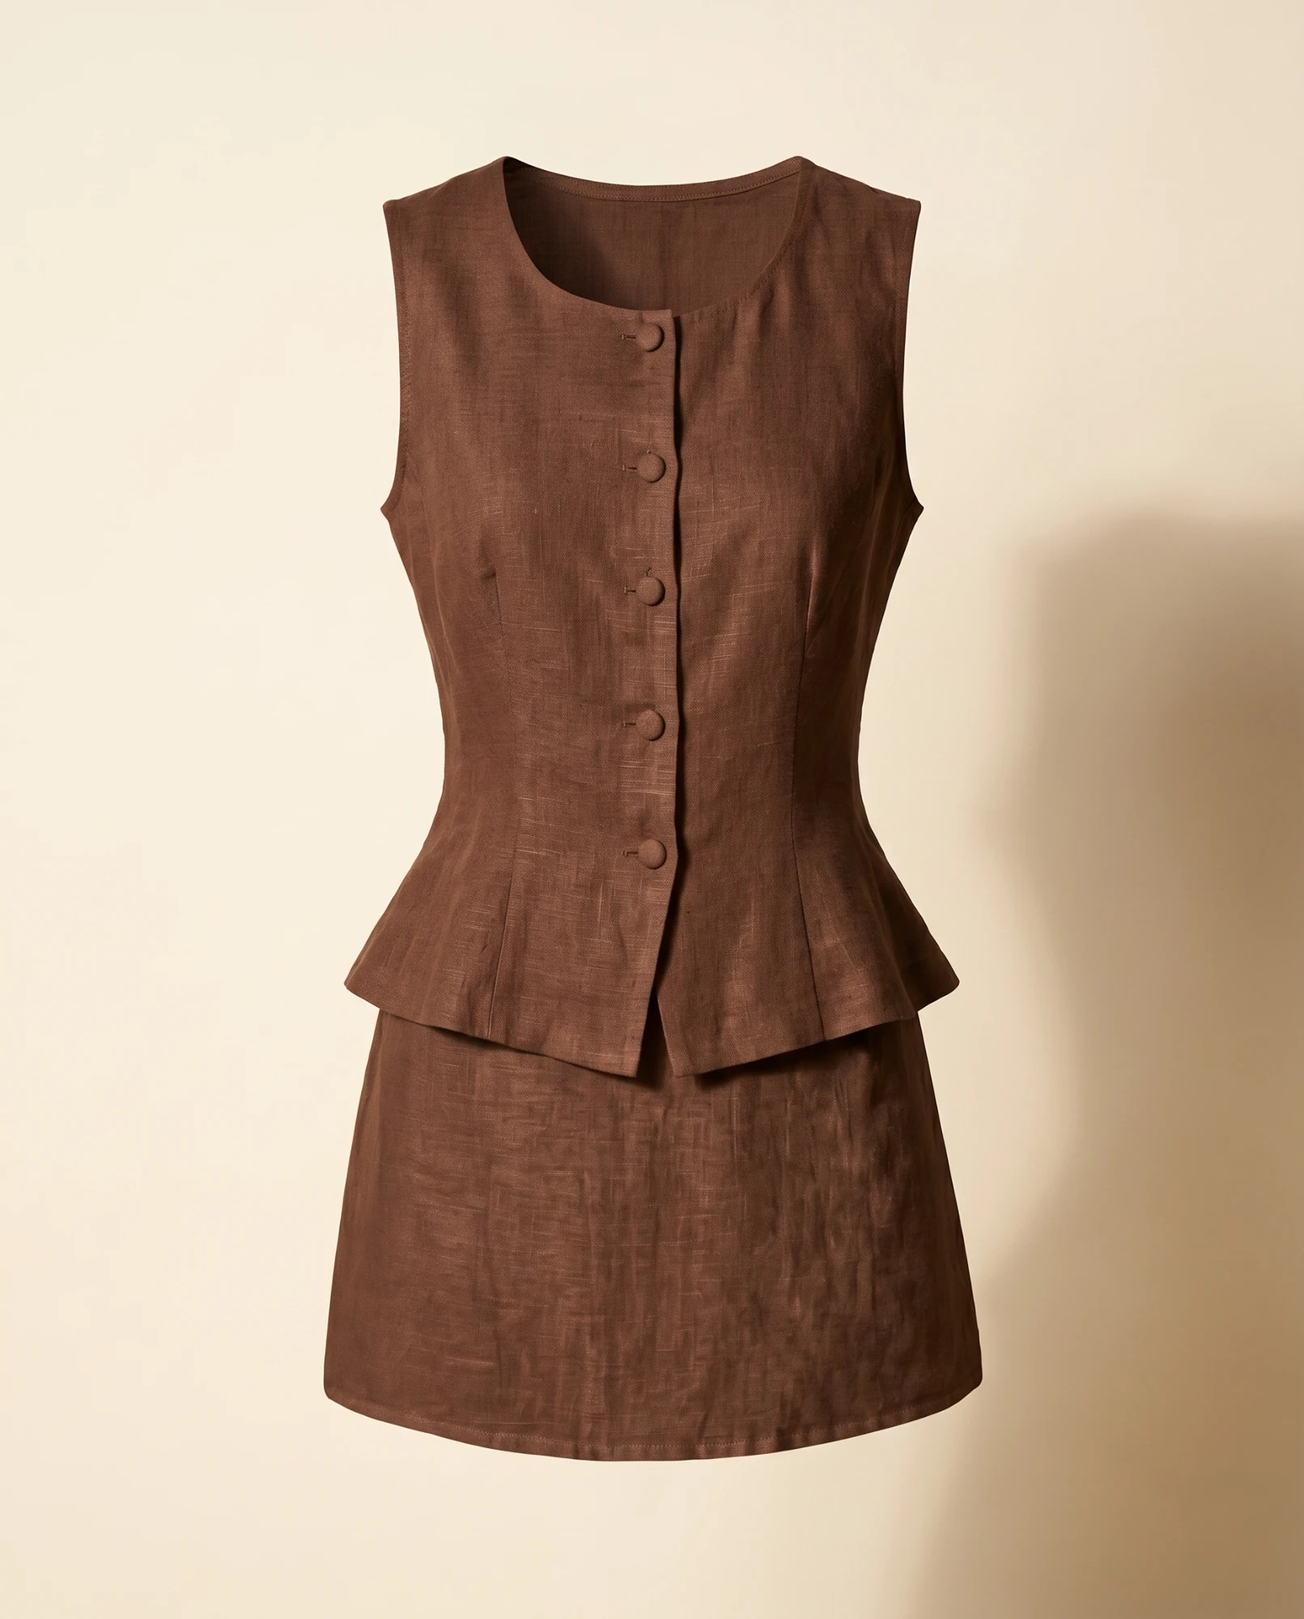
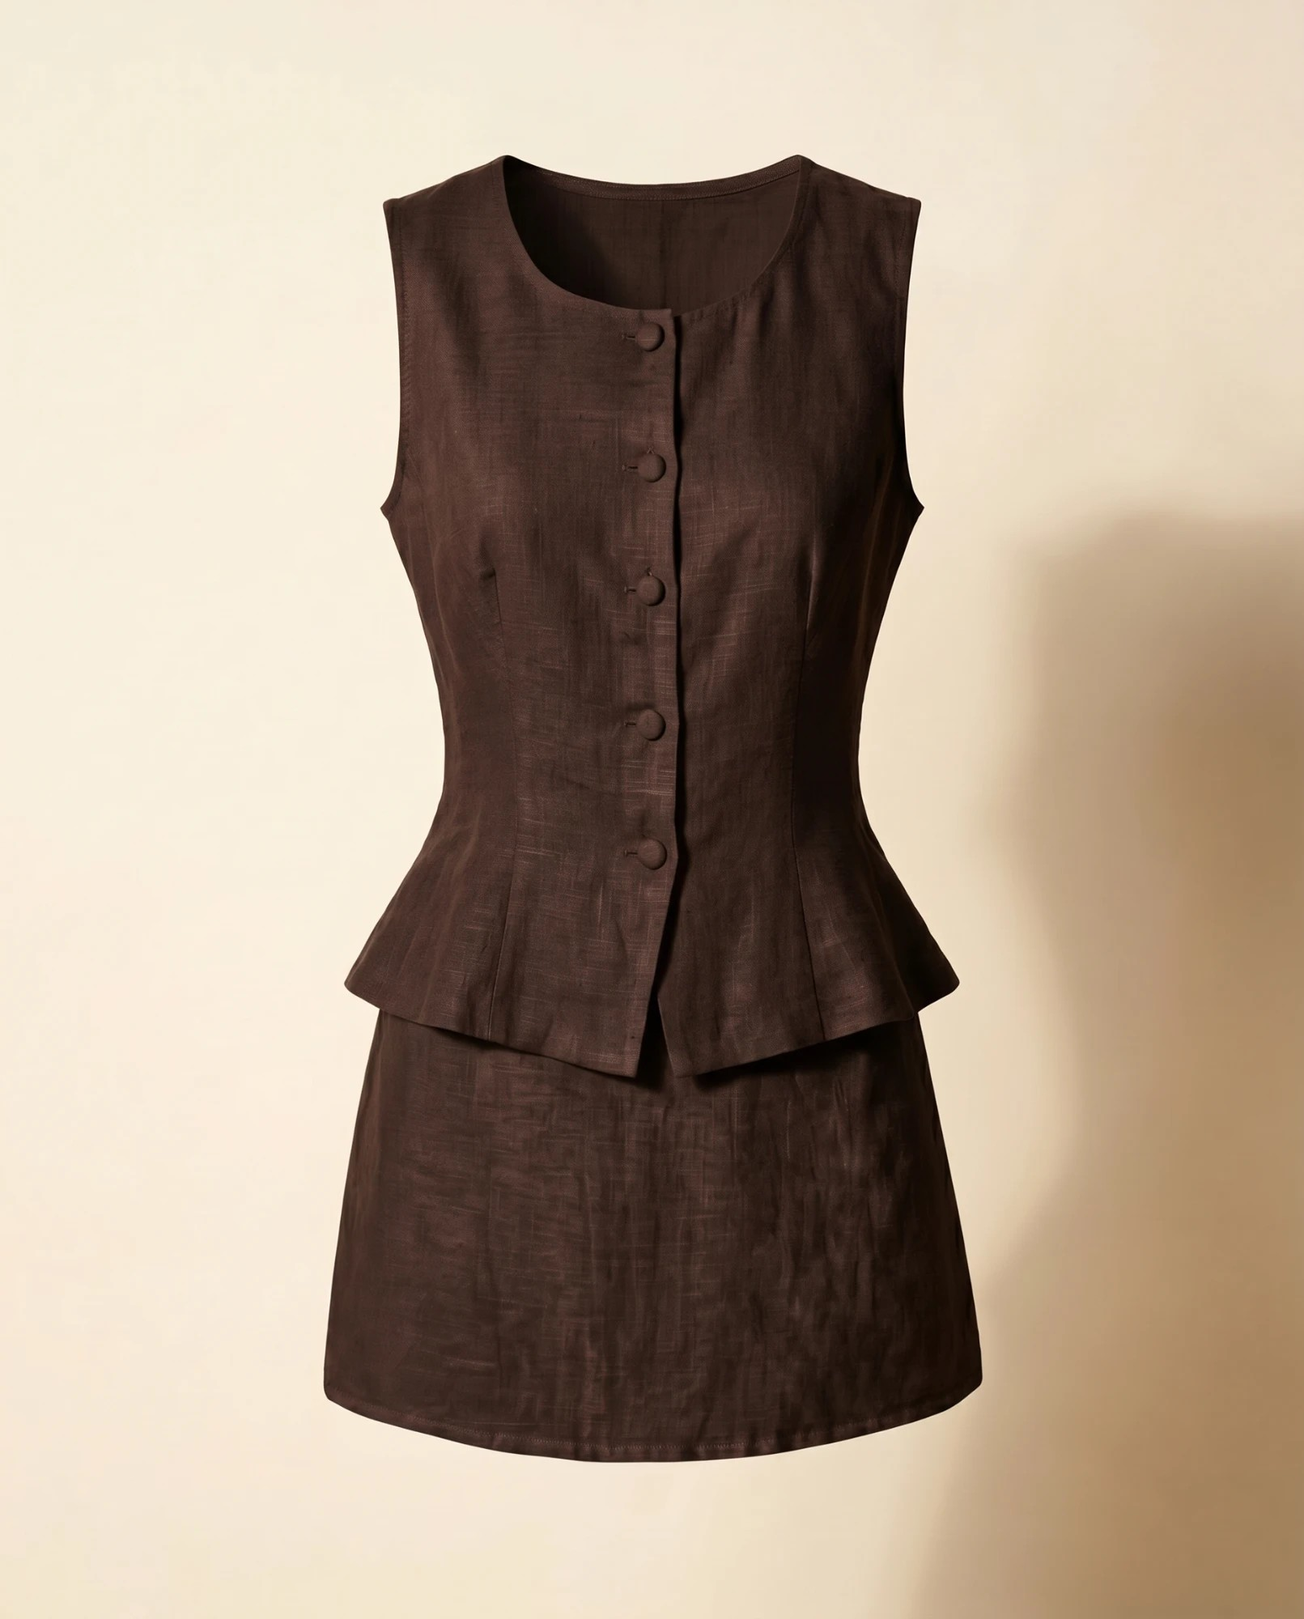
Refresh brown colourways, prune fallback colours, reword copy, remove try-on
- Replace the five brown product photos (set, flares, waistcoat, dress, skirt)
- Only show a colour option where there is a real distinct image; drop
  fallback-only colours (crewneck Cream, cap Stone, shirt Cream, shorts Sky stripe)
- Reword product descriptions to fit the brand voice and the actual pieces
  (incl. correcting the linen dress to a square-neck pinafore)
- Remove the Virtual Try-On / Fitting Room section, nav link, buttons,
  fitting-room JS and CSS

diff --git a/assets/js/app.js b/assets/js/app.js
@@ -1,7 +1,7 @@
 /* ============================================================
    MAREN — storefront app
    Data layer + cart/wishlist + product detail + journal +
-   shoppable lookbook + size guide + fitting-room demo + stylist.
+   shoppable lookbook + size guide + stylist.
    Zero-build, client-side only. Persistence via localStorage.
    ============================================================ */
 (function(){
@@ -12,34 +12,34 @@
   var SIZES = ['XS','S','M','L','XL'];
   var products = [
     {id:'crewneck', name:'The Cotton Crewneck', price:138, cat:'Sweats',      g:'top',   blooms:'#C9C2B4', hero:true, pal:['neutrals'], occ:['rest','town'],
-      desc:'Oversized marl cotton fleece, chest pocket', colors:[{name:'Marl Grey',hex:'#C9C2B4'},{name:'Navy',hex:'#2A3B52',img:'crewneck-navy'},{name:'Cream',hex:'#F2ECDF'}],
+      desc:'Heavyweight marl cotton, oversized with a chest pocket', colors:[{name:'Marl Grey',hex:'#C9C2B4'},{name:'Navy',hex:'#2A3B52',img:'crewneck-navy'}],
       fabric:'Heavyweight brushed-back cotton fleece with a soft marl. Dropped shoulders, ribbed neck, cuffs and hem, with a patch chest pocket and an embroidered MAREN wordmark.', care:'Machine wash cold inside out; dry flat to keep its shape.'},
     {id:'cap',      name:'The MAREN Cap',       price:42,  cat:'Accessories', g:'top',   blooms:'#2A3B52', hero:true, sizes:['One size'], pal:['blues','neutrals'], occ:['harbour','town'],
-      desc:'Washed-cotton six-panel, embroidered wordmark', colors:[{name:'Navy',hex:'#2A3B52'},{name:'Stone',hex:'#C9BBA1'}],
+      desc:'Soft washed-cotton six-panel with an embroidered wordmark', colors:[{name:'Navy',hex:'#2A3B52'}],
       fabric:'Unstructured six-panel cap in soft washed cotton with a low crown, curved brim and an embroidered MAREN wordmark.', care:'Spot clean and air dry. Do not machine wash.'},
     {id:'shirt',    name:'The Linen Shirt',     price:88,  cat:'Shirts',      g:'top',   blooms:'#AFC7DA', hero:true, pal:['neutrals','blues'], occ:['town','harbour'],
-      desc:'Pre-washed linen, mother-of-pearl buttons', colors:[{name:'White',hex:'#FBF8F2'},{name:'Sky',hex:'#AFC7DA',img:'shirt-sky'},{name:'Navy',hex:'#2A3B52',img:'shirt-navy'},{name:'Cream',hex:'#F2ECDF'}],
+      desc:'Relaxed pre-washed linen with mother-of-pearl buttons', colors:[{name:'White',hex:'#FBF8F2'},{name:'Sky',hex:'#AFC7DA',img:'shirt-sky'},{name:'Navy',hex:'#2A3B52',img:'shirt-navy'}],
       fabric:'Pre-washed pure linen with a relaxed cut, soft natural creases and mother-of-pearl buttons. Woven MAREN collar label.', care:'Machine wash cold, line dry, warm iron — or wear creased.'},
     {id:'dress',    name:'The Linen Dress',     price:128, cat:'Dresses',     g:'dress', blooms:'#AFC7DA', hero:true, pal:['neutrals','blues'], occ:['harbour','evening'],
-      desc:'Square-neck linen midi, easy drape', colors:[{name:'White',hex:'#FBF8F2'},{name:'Natural',hex:'#C9BBA1',img:'dress-oat'},{name:'Brown',hex:'#6E5847',img:'dress-brown'}],
-      fabric:'Easy midi dress in pure washed linen with a square neckline, fine straps and a soft natural drape. Woven MAREN inner label.', care:'Machine wash cold, line dry, cool iron.'},
+      desc:'Square-neck linen pinafore with an easy A-line', colors:[{name:'White',hex:'#FBF8F2'},{name:'Natural',hex:'#C9BBA1',img:'dress-oat'},{name:'Brown',hex:'#6E5847',img:'dress-brown'}],
+      fabric:'A short pinafore dress in pure washed linen with a square neckline, wider straps and a soft A-line. Woven MAREN inner label.', care:'Machine wash cold, line dry, cool iron.'},
     {id:'shorts',   name:'The Gingham Shorts',  price:62,  cat:'Shorts',      g:'set',   blooms:'#8FB0CB', hero:true, pal:['blues','stripe'], occ:['rest','harbour'],
-      desc:'Pull-on linen, navy-and-cream gingham', colors:[{name:'Navy gingham',hex:'#2A3B52'},{name:'Sky stripe',hex:'#AFC7DA'}],
+      desc:'Pull-on gingham linen in washed navy and cream', colors:[{name:'Navy gingham',hex:'#2A3B52'}],
       fabric:'Relaxed pull-on shorts in lightweight gingham linen with a gathered elastic waist, button fly and a woven MAREN hem label.', care:'Machine wash cold, line dry, warm iron.'},
     {id:'skirt',    name:'The Linen Mini Skirt', price:78, cat:'Skirts',       g:'set',   blooms:'#C9C2B4', hero:false, pal:['neutrals'], occ:['town','harbour'],
-      desc:'A-line washed linen mini', colors:[{name:'White',hex:'#FBF8F2'},{name:'Navy',hex:'#2A3B52',img:'skirt-navy'},{name:'Brown',hex:'#6E5847',img:'skirt-brown'}],
+      desc:'A-line washed-linen mini with a clean waistband', colors:[{name:'White',hex:'#FBF8F2'},{name:'Navy',hex:'#2A3B52',img:'skirt-navy'},{name:'Brown',hex:'#6E5847',img:'skirt-brown'}],
       fabric:'Clean A-line mini in structured washed linen with a smooth waistband and a woven MAREN label.', care:'Machine wash cold, line dry, cool iron.'},
     {id:'vest',     name:'The Linen Waistcoat',  price:92, cat:'Waistcoats',   g:'top',   blooms:'#E2D7C3', hero:false, pal:['neutrals'], occ:['town','evening'],
-      desc:'Tailored sleeveless linen, button front', colors:[{name:'Natural',hex:'#F2ECDF'},{name:'Navy',hex:'#2A3B52',img:'vest-navy'},{name:'Brown',hex:'#6E5847',img:'vest-brown'}],
+      desc:'Tailored sleeveless linen with a covered-button front', colors:[{name:'Natural',hex:'#F2ECDF'},{name:'Navy',hex:'#2A3B52',img:'vest-navy'},{name:'Brown',hex:'#6E5847',img:'vest-brown'}],
       fabric:'A fitted sleeveless waistcoat in washed linen with a rounded neck, covered buttons and a woven MAREN label.', care:'Machine wash cold or hand wash; line dry, cool iron.'},
     {id:'set',      name:'The Linen Set',        price:160, cat:'Sets',        g:'dress', blooms:'#E2D7C3', hero:true,  pal:['neutrals'], occ:['town','evening'],
-      desc:'Waistcoat & mini skirt, washed linen', colors:[{name:'White',hex:'#FBF8F2'},{name:'Navy',hex:'#2A3B52',img:'set-navy'},{name:'Brown',hex:'#6E5847',img:'set-brown'}],
+      desc:'Linen waistcoat and mini skirt, made to wear together', colors:[{name:'White',hex:'#FBF8F2'},{name:'Navy',hex:'#2A3B52',img:'set-navy'},{name:'Brown',hex:'#6E5847',img:'set-brown'}],
       fabric:'The Linen Waistcoat and Mini Skirt as a tailored co-ord — washed linen, worn together. A saving on buying the pieces separately.', care:'Machine wash cold or hand wash; line dry, cool iron.'},
     {id:'pants',    name:'The Fold-Over Flares', price:88,  cat:'Trousers',    g:'set',   blooms:'#8FB0CB', hero:false, pal:['neutrals','blues'], occ:['rest','town'],
-      desc:'Fold-over waist, wide flare, soft jersey', colors:[{name:'Navy',hex:'#2A3B52'},{name:'Brown',hex:'#6E5847',img:'pants-brown'}],
+      desc:'Fold-over waist flares in soft, drapey jersey', colors:[{name:'Navy',hex:'#2A3B52'},{name:'Brown',hex:'#6E5847',img:'pants-brown'}],
       fabric:'Soft brushed jersey lounge flares with a fold-over waistband and a wide, drapey leg. Woven MAREN waistband label.', care:'Machine wash cold, line dry; do not tumble.'},
     {id:'breton',   name:'The Breton Long-Sleeve', price:72, cat:'Tops',       g:'top',   blooms:'#8FB0CB', hero:false, pal:['stripe','blues'], occ:['town','rest'],
-      desc:'Oversized cotton, navy Breton stripe', colors:[{name:'Navy stripe',hex:'#2A3B52'}],
+      desc:'Oversized cotton in a yarn-dyed navy Breton stripe', colors:[{name:'Navy stripe',hex:'#2A3B52'}],
       fabric:'Oversized long-sleeve in heavyweight cotton jersey with a yarn-dyed navy-and-cream Breton stripe and a woven MAREN collar label.', care:'Machine wash cold, reshape damp, dry flat.'}
   ];
   var byId = {}; products.forEach(function(p){ byId[p.id]=p; });
@@ -215,8 +215,7 @@
           (p.colors.length>1 ? '<div class="ways">'+p.colors.map(function(c,i){return '<button class="cway'+(i===0?' active':'')+'" data-id="'+p.id+'" data-pcolor="'+c.name+'" title="'+c.name+'" style="background:'+c.hex+'" aria-label="'+p.name+' in '+c.name+'"></button>';}).join('')+'</div>' : '')+
           '</div>'+
           '<div class="card-actions">'+
-            '<button class="btn" data-quick="'+p.id+'">Quick view</button>'+
-            '<button class="btn solid" data-tryon="'+p.id+'">Try on</button>'+
+            '<button class="btn solid" data-quick="'+p.id+'">Quick view</button>'+
           '</div>';
         grid.appendChild(card);
       });
@@ -351,7 +350,6 @@
           '<button class="btn solid" id="pdp-add">Add to bag</button>'+
           '<button class="btn wish-btn'+(store.inWish(id)?' on':'')+'" id="pdp-wish" data-id="'+id+'" aria-label="Save">'+(store.inWish(id)?'♥':'♡')+'</button>'+
         '</div>'+
-        '<button class="btn" id="pdp-tryon" data-tryon="'+id+'" style="width:100%;justify-content:center;margin-top:10px;font-size:11px;">See it in the fitting room</button>'+
         '<div class="acc">'+
           '<details><summary>Fabric &amp; origin</summary><p>'+p.fabric+'</p></details>'+
           '<details><summary>Care</summary><p>'+p.care+'</p></details>'+
@@ -513,7 +511,7 @@
 
     // ----- global click delegation -----
     document.addEventListener('click', function(e){
-      var t = e.target.closest('[data-quick],[data-wish],[data-tryon],[data-article],[data-filter],[data-add]');
+      var t = e.target.closest('[data-quick],[data-wish],[data-article],[data-filter],[data-add]');
       if(!t) return;
 
       if(t.hasAttribute('data-filter')){
@@ -528,7 +526,6 @@
         openPDP(t.getAttribute('data-quick'), col); return;
       }
       if(t.hasAttribute('data-article')){ openArticle(parseInt(t.getAttribute('data-article'),10)); return; }
-      if(t.hasAttribute('data-tryon')){ closeAll(); jumpToTryOn(byId[t.getAttribute('data-tryon')].g); return; }
     });
 
     // ----- colour blocks on Edit cards: swap the thumbnail in place -----
@@ -639,7 +636,6 @@
 
     buildSizeGuide();
     initVideo();
-    initFittingRoom();
     initStylist();
     initNewsletter();
   }
@@ -708,69 +704,6 @@
       });
       toggle.textContent = (reduce || hv.paused) ? '▶' : '❙❙';
     }
-  }
-
-  /* ---------------- FITTING ROOM (demo, unchanged behaviour) ---------------- */
-  var fr = {};
-  function jumpToTryOn(g){
-    var tryon = $('#tryon'); if(!tryon) return;
-    tryon.scrollIntoView({behavior:'smooth'});
-    setTimeout(function(){
-      if(fr.setModel) fr.setModel('a');
-      if(fr.garmentShape){
-        var shapes = fr.shapes;
-        fr.garmentShape.setAttribute('d', shapes[g]||shapes.dress);
-        fr.garmentShape.setAttribute('fill', g==='dress'?'#F2ECDF':'#dfe7ee');
-        fr.garment.classList.add('on');
-      }
-    }, 500);
-  }
-  function initFittingRoom(){
-    var shapes = {
-      dress:'M20,30 L40,12 L80,12 L100,30 L94,52 L98,140 L22,140 L26,52 Z',
-      top:  'M16,32 L40,12 L80,12 L104,32 L92,52 L92,96 L28,96 L28,52 Z',
-      set:  'M22,34 L42,16 L78,16 L98,34 L90,54 L90,84 L30,84 L30,54 Z M34,92 L86,92 L84,138 L62,138 L62,104 L58,104 L58,138 L36,138 Z'
-    };
-    fr.shapes = shapes;
-    var empty=$('#stage-empty'), silA=$('#sil-a'), silB=$('#sil-b'), uploaded=$('#uploaded-img');
-    var garment=$('#garment'); fr.garment=garment; fr.garmentShape=$('#garment-shape');
-    var chipsBox=$('#garment-chips');
-    if(!garment) return;
-    fr.setModel = function(which){
-      empty.style.display='none'; uploaded.style.display='none';
-      silA.style.display = which==='a'?'block':'none';
-      silB.style.display = which==='b'?'block':'none';
-      $all('[data-model]').forEach(function(b){ b.classList.toggle('active', b.getAttribute('data-model')===which); });
-    };
-    $all('[data-model]').forEach(function(btn){ btn.addEventListener('click', function(){ fr.setModel(btn.getAttribute('data-model')); }); });
-    $('#photo') && $('#photo').addEventListener('change', function(e){
-      var file=e.target.files[0]; if(!file) return;
-      var reader=new FileReader();
-      reader.onload=function(ev){ uploaded.src=ev.target.result; uploaded.style.display='block';
-        silA.style.display='none'; silB.style.display='none'; empty.style.display='none';
-        $all('[data-model]').forEach(function(b){b.classList.remove('active');}); };
-      reader.readAsDataURL(file);
-    });
-    var garmentBtns=[
-      {g:'dress',label:'Linen Dress',color:'#FBF8F2'},{g:'top',label:'Linen Shirt',color:'#F2ECDF'},
-      {g:'top',label:'Cotton Crewneck',color:'#C9C2B4'},{g:'set',label:'Gingham Shorts',color:'#AFC7DA'},
-      {g:'top',label:'MAREN Cap',color:'#2A3B52'}
-    ];
-    chipsBox && garmentBtns.forEach(function(o){
-      var b=document.createElement('button'); b.className='chip'; b.textContent=o.label;
-      b.addEventListener('click', function(){
-        if(silA.style.display==='none' && silB.style.display==='none' && uploaded.style.display==='none'){ fr.setModel('a'); }
-        fr.garmentShape.setAttribute('d', shapes[o.g]); fr.garmentShape.setAttribute('fill', o.color);
-        garment.classList.add('on');
-        $all('.chip',chipsBox).forEach(function(c){c.classList.remove('active');}); b.classList.add('active');
-      });
-      chipsBox.appendChild(b);
-    });
-    $('#reset-stage') && $('#reset-stage').addEventListener('click', function(){
-      garment.classList.remove('on'); silA.style.display='none'; silB.style.display='none';
-      uploaded.style.display='none'; uploaded.src=''; empty.style.display='block';
-      $all('.chip',chipsBox).forEach(function(c){c.classList.remove('active');});
-    });
   }
 
   /* ---------------- STYLIST (rule-based demo) ---------------- */

diff --git a/index.html b/index.html
@@ -21,7 +21,6 @@
       <a href="#lookbook">Lookbook</a>
       <a href="#films">Films</a>
       <a href="#journal">Journal</a>
-      <a href="#tryon">Try On</a>
       <a href="#stylist">Stylist</a>
     </nav>
     <a class="brandmark" href="#top">MAREN</a>
@@ -125,57 +124,6 @@
       <div class="cap"><div class="k">Campaign</div><div class="t">MAREN — Spring / Summer 2026</div></div>
     </div>
     <div class="films-grid" id="films-grid"></div>
-  </div>
-</section>
-
-<!-- ============ VIRTUAL TRY-ON ============ -->
-<section id="tryon" class="tryon-section">
-  <div class="wrap">
-    <div class="sec-head">
-      <div class="eyebrow">The Fitting Room</div>
-      <h2>Virtual Try-On</h2>
-    </div>
-    <p class="tryon-lead">See a piece on a model, or on you. Choose a fit, then layer a garment — this is an interactive prototype; real photorealistic try-on is the next build (it needs a server-side engine, a per-image budget and a privacy/GDPR review).</p>
-    <div class="studio">
-      <div class="stage" id="stage" aria-live="polite">
-        <span class="placeholder-text" id="stage-empty">Choose a model or add a photo to begin</span>
-        <svg class="silhouette" id="sil-a" viewBox="0 0 200 320" xmlns="http://www.w3.org/2000/svg" style="display:none" aria-hidden="true">
-          <g fill="#cdd7e2"><ellipse cx="100" cy="44" rx="30" ry="36"/>
-          <path d="M62,300 C70,150 80,108 100,108 C120,108 130,150 138,300 Z"/></g>
-        </svg>
-        <svg class="silhouette" id="sil-b" viewBox="0 0 200 320" xmlns="http://www.w3.org/2000/svg" style="display:none" aria-hidden="true">
-          <g fill="#e2d7c3"><ellipse cx="100" cy="46" rx="27" ry="33"/>
-          <path d="M66,300 C74,160 84,112 100,112 C116,112 126,160 134,300 Z"/></g>
-        </svg>
-        <img class="uploaded" id="uploaded-img" alt="" style="display:none">
-        <svg class="garment" id="garment" viewBox="0 0 120 150" xmlns="http://www.w3.org/2000/svg" aria-hidden="true">
-          <path id="garment-shape" d="M20,30 L40,12 L80,12 L100,30 L88,48 L88,140 L32,140 L32,48 Z" fill="#F2ECDF" stroke="#2A3B52" stroke-width="1.2" opacity="0.96"/>
-        </svg>
-      </div>
-      <div class="controls">
-        <div class="group">
-          <label>1 · Choose a fit</label>
-          <div class="chip-row">
-            <button class="chip" data-model="a">Model — Coastal</button>
-            <button class="chip" data-model="b">Model — Sun</button>
-          </div>
-          <div class="upload-box" style="margin-top:12px;">
-            <label for="photo" class="pick">Upload your photo</label> to try it on yourself
-            <input type="file" id="photo" accept="image/*">
-          </div>
-        </div>
-        <div class="group">
-          <label>2 · Layer a garment</label>
-          <div class="chip-row" id="garment-chips"></div>
-        </div>
-        <button class="btn light" id="reset-stage" style="font-size:11px;">Reset fitting room</button>
-        <details class="how">
-          <summary>How the production version works</summary>
-          <p>This prototype layers a flat garment graphic over a chosen figure to demonstrate the flow. A live build routes the customer’s photo (or a body model) and the garment asset through a try-on engine — a specialist VTO API or an in-house diffusion/pose pipeline — returning a photorealistic composite, wired to the same product data as The Edit.</p>
-          <p class="privacy-flag">Privacy note: any feature ingesting a customer photo processes personal (and arguably biometric) data. Under UK GDPR you’ll need a lawful basis, a privacy notice, retention limits, and ideally on-device or ephemeral processing. Confirm with counsel before launch.</p>
-        </details>
-      </div>
-    </div>
   </div>
 </section>
 

diff --git a/assets/css/styles.css b/assets/css/styles.css
@@ -131,37 +131,12 @@ section{padding:96px 0;}
 .card .card-actions{display:flex;gap:8px;margin:14px 20px 0;}
 .card .card-actions .btn{flex:1;justify-content:center;font-size:11px;padding:12px;}
 
-/* ---------- TRY-ON ---------- */
-.tryon-section{background:var(--ink);color:var(--cream);}
-.tryon-section .eyebrow{color:var(--sky);}
-.tryon-section h2{color:var(--cream-2);}
-.tryon-lead{text-align:center;max-width:60ch;margin:0 auto 46px;color:#cdd7e2;font-weight:300;}
-.studio{display:grid;grid-template-columns:1.1fr 1fr;gap:48px;align-items:start;
-  background:rgba(255,255,255,.04);border:1px solid rgba(175,199,218,.28);padding:34px;}
-.stage{position:relative;aspect-ratio:3/4;background:linear-gradient(180deg,#33455e,#2a3b52);
-  border:1px solid rgba(175,199,218,.3);overflow:hidden;display:flex;align-items:center;justify-content:center;}
-.stage .silhouette{position:absolute;bottom:0;height:92%;opacity:.92;}
-.stage .garment{position:absolute;left:50%;transform:translateX(-50%);width:54%;opacity:0;
-  transition:opacity .5s ease;mix-blend-mode:normal;}
-.stage .garment.on{opacity:1;}
-.stage .placeholder-text{color:#9fb2c7;font-size:12px;letter-spacing:.2em;text-transform:uppercase;text-align:center;padding:0 24px;}
-.stage img.uploaded{position:absolute;inset:0;width:100%;height:100%;object-fit:cover;}
-.controls label{display:block;font-size:11px;letter-spacing:.22em;text-transform:uppercase;color:var(--sky);margin:0 0 10px;}
-.controls .group{margin-bottom:26px;}
-.chip-row{display:flex;flex-wrap:wrap;gap:10px;}
-.chip{font-family:var(--sans);font-size:12px;letter-spacing:.08em;padding:10px 16px;border:1px solid rgba(175,199,218,.45);
-  background:transparent;color:var(--cream);transition:all .25s;}
-.chip:hover{border-color:var(--sky);}
-.chip.active{background:var(--sky);color:var(--ink);border-color:var(--sky);}
-.upload-box{border:1px dashed rgba(175,199,218,.5);padding:16px;text-align:center;font-size:12px;color:#bcccd9;}
-.upload-box input{display:none;}
-.upload-box .pick{color:var(--sky);text-decoration:underline;cursor:pointer;}
-details.how{margin-top:18px;border-top:1px solid rgba(175,199,218,.25);padding-top:16px;}
-details.how summary{font-size:11px;letter-spacing:.2em;text-transform:uppercase;color:var(--sky);cursor:pointer;}
-details.how p{font-size:12.5px;color:#cdd7e2;margin:12px 0 0;line-height:1.7;}
-.privacy-flag{font-size:11px;color:#9fb2c7;margin-top:14px;border-left:2px solid var(--sky);padding-left:12px;}
-
 /* ---------- STYLIST ---------- */
+.chip-row{display:flex;flex-wrap:wrap;gap:10px;}
+.chip{font-family:var(--sans);font-size:12px;letter-spacing:.08em;padding:10px 16px;border:1px solid var(--line);
+  background:transparent;color:var(--ink);transition:all .25s;cursor:pointer;}
+.chip:hover{border-color:var(--sky);}
+.chip.active{background:var(--ink);color:var(--cream);border-color:var(--ink);}
 .stylist-wrap{max-width:680px;margin:0 auto;background:var(--cream-2);border:1px solid var(--line);padding:42px;}
 .q{margin-bottom:30px;}
 .q p{font-family:var(--serif);font-size:20px;margin:0 0 16px;}
@@ -388,7 +363,6 @@ table.size-table th{background:var(--oat);font-weight:500;letter-spacing:.04em;}
 /* ---------- RESPONSIVE ---------- */
 @media(max-width:920px){
   .grid{grid-template-columns:repeat(2,1fr);}
-  .studio{grid-template-columns:1fr;}
   .foot-top{grid-template-columns:1fr;}
   .muse-grid{grid-template-columns:1fr;}
   .jrn-grid{grid-template-columns:1fr 1fr;}
